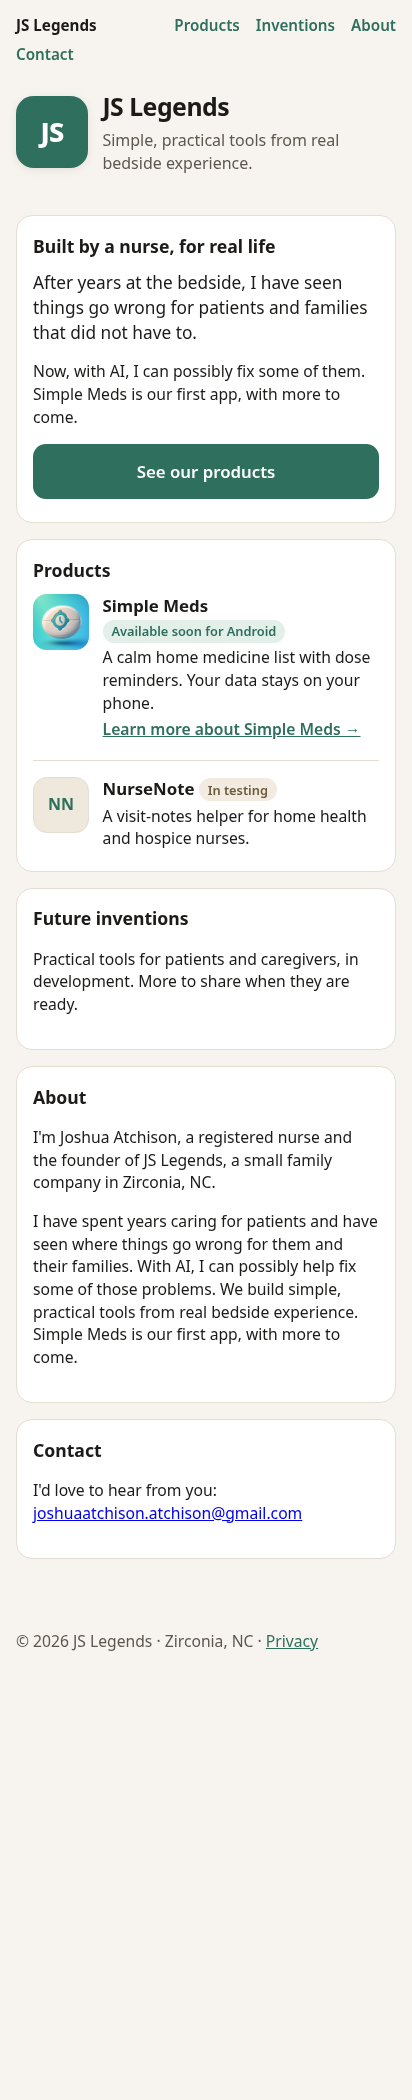
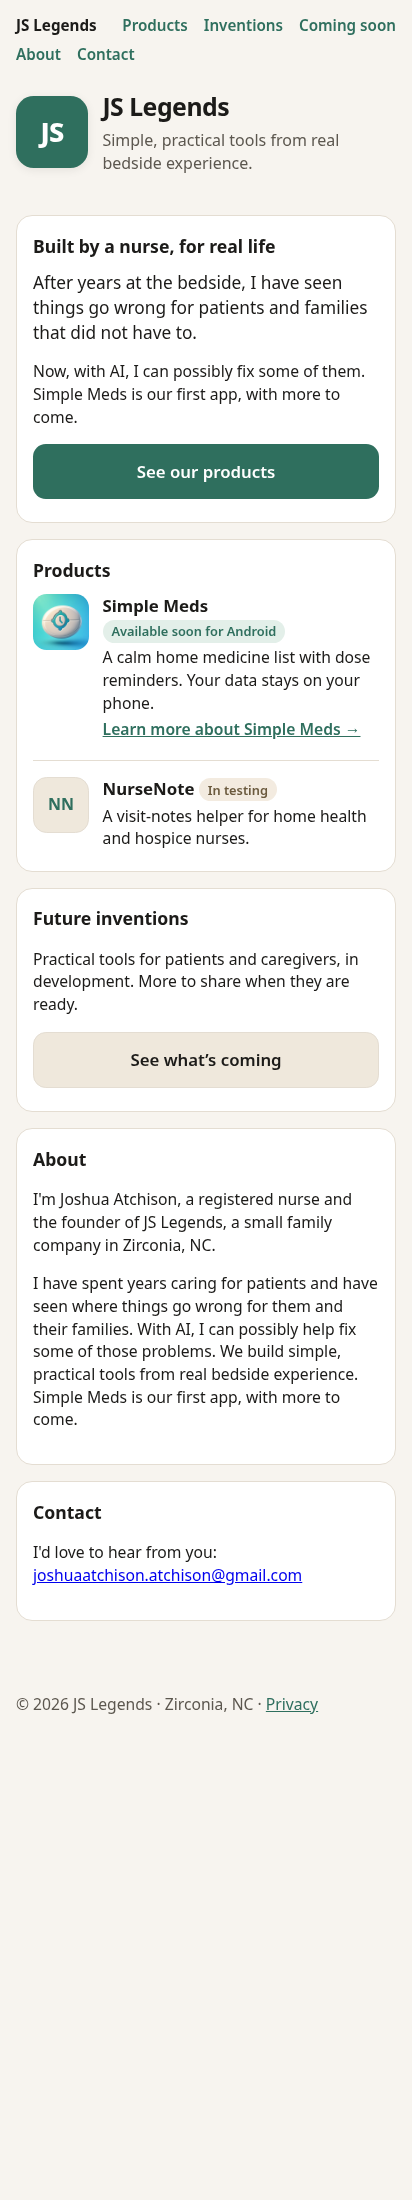
Clickable Simple Meds card; add coming-soon.html with mailto idea form

diff --git a/coming-soon.html b/coming-soon.html
@@ -1,0 +1,207 @@
+<!DOCTYPE html>
+<html lang="en">
+<head>
+  <meta charset="utf-8" />
+  <meta name="viewport" content="width=device-width, initial-scale=1" />
+  <title>What&rsquo;s coming — JS Legends</title>
+  <meta name="description" content="JS Legends is a small family company in Zirconia, NC building simple, practical tools for patients, families, and nurses." />
+  <style>
+    :root {
+      --bg: #f7f4ef;
+      --card: #ffffff;
+      --ink: #1c1b19;
+      --muted: #5c574f;
+      --line: #e4ddd2;
+      --accent: #2f6f5e;
+      --accent-ink: #ffffff;
+      --warn: #6b5a3e;
+    }
+    * { box-sizing: border-box; }
+    body {
+      margin: 0;
+      font-family: system-ui, -apple-system, Segoe UI, Roboto, Helvetica, Arial, sans-serif;
+      background: var(--bg);
+      color: var(--ink);
+      line-height: 1.45;
+    }
+    header, main, footer {
+      max-width: 40rem;
+      margin: 0 auto;
+      padding: 1.25rem 1rem;
+    }
+    header {
+      display: flex;
+      gap: 0.9rem;
+      align-items: center;
+      padding-top: 1.5rem;
+    }
+    header img.icon {
+      width: 4.5rem;
+      height: 4.5rem;
+      border-radius: 1.1rem;
+      box-shadow: 0 2px 10px rgba(0,0,0,0.08);
+    }
+    h1 {
+      font-size: 1.55rem;
+      margin: 0 0 0.25rem;
+      letter-spacing: -0.02em;
+    }
+    .tagline {
+      margin: 0;
+      color: var(--muted);
+      font-size: 1rem;
+    }
+    .hero {
+      width: 100%;
+      border-radius: 0.85rem;
+      display: block;
+      margin: 0.5rem 0 1.25rem;
+      border: 1px solid var(--line);
+    }
+    .card {
+      background: var(--card);
+      border: 1px solid var(--line);
+      border-radius: 1rem;
+      padding: 1.1rem 1rem;
+      margin-bottom: 1rem;
+    }
+    h2 {
+      font-size: 1.1rem;
+      margin: 0 0 0.65rem;
+    }
+    p, li { font-size: 0.98rem; }
+    .shots {
+      display: grid;
+      grid-template-columns: 1fr 1fr;
+      gap: 0.65rem;
+    }
+    .shots img {
+      width: 100%;
+      height: auto;
+      border-radius: 0.75rem;
+      border: 1px solid var(--line);
+      background: #fff;
+    }
+    .btn {
+      display: block;
+      text-align: center;
+      text-decoration: none;
+      border-radius: 0.8rem;
+      padding: 0.95rem 1rem;
+      font-weight: 650;
+      font-size: 1.05rem;
+      margin: 0.75rem 0 0.35rem;
+    }
+    .btn-primary {
+      background: var(--accent);
+      color: var(--accent-ink);
+    }
+    .btn-secondary {
+      background: #efe8dc;
+      color: var(--ink);
+      border: 1px solid var(--line);
+    }
+    .note {
+      color: var(--muted);
+      font-size: 0.9rem;
+      margin: 0.35rem 0 0;
+    }
+    ol {
+      margin: 0.4rem 0 0;
+      padding-left: 1.25rem;
+    }
+    li { margin-bottom: 0.4rem; }
+    .disclaimer {
+      border-left: 3px solid var(--warn);
+      padding: 0.65rem 0.85rem;
+      background: #f3ebe0;
+      border-radius: 0 0.75rem 0.75rem 0;
+      color: var(--warn);
+      font-size: 0.92rem;
+    }
+    footer {
+      color: var(--muted);
+      font-size: 0.88rem;
+      padding-bottom: 2.5rem;
+    }
+    footer a { color: var(--accent); }
+    @media (min-width: 640px) {
+      .shots { grid-template-columns: repeat(4, 1fr); }
+    }
+
+    .topnav { max-width:40rem; margin:0 auto; padding:0.9rem 1rem 0; display:flex; flex-wrap:wrap; gap:0.4rem 1rem; align-items:center; font-size:0.95rem; }
+    .topnav a { color: var(--accent); text-decoration:none; font-weight:600; }
+    .topnav .brand { color: var(--ink); font-weight:750; margin-right:auto; }
+
+    .mark { width:4.5rem; height:4.5rem; border-radius:1.1rem; background:var(--accent); color:#fff; display:flex; align-items:center; justify-content:center; font-weight:800; font-size:1.7rem; letter-spacing:-0.03em; box-shadow:0 2px 10px rgba(0,0,0,0.08); flex:none; }
+    .lead { font-size:1.08rem; margin:0 0 0.6rem; }
+    .product { display:flex; gap:0.85rem; align-items:flex-start; }
+    .product img, .product .pmark { width:3.5rem; height:3.5rem; border-radius:0.85rem; flex:none; }
+    .product .pmark { background:#efe8dc; border:1px solid var(--line); display:flex; align-items:center; justify-content:center; font-weight:750; color:var(--accent); }
+    .product h3 { margin:0 0 0.2rem; font-size:1.05rem; }
+    .product p { margin:0.2rem 0; }
+    .badge { display:inline-block; font-size:0.8rem; font-weight:650; padding:0.15rem 0.55rem; border-radius:999px; background:#e3efe9; color:var(--accent); }
+    .badge.test { background:#f3ebe0; color:var(--warn); }
+    .product a.more { color:var(--accent); font-weight:600; }
+    a.product-link { color:inherit; text-decoration:none; border-radius:0.85rem; padding:0.5rem; margin:-0.5rem; transition:background .15s, box-shadow .15s; }
+    a.product-link .more { color:var(--accent); font-weight:600; text-decoration:underline; }
+    a.product-link:hover { background:#f3efe7; }
+    a.product-link:focus-visible { outline:3px solid var(--accent); outline-offset:2px; background:#f3efe7; }
+    .field { display:block; margin:0 0 0.8rem; font-weight:600; font-size:0.95rem; }
+    .field input, .field textarea { display:block; width:100%; margin-top:0.3rem; font:inherit; font-weight:400; padding:0.65rem 0.75rem; border:1px solid var(--line); border-radius:0.65rem; background:#fff; color:var(--ink); }
+    .field input:focus, .field textarea:focus { outline:2px solid var(--accent); border-color:var(--accent); }
+    button.btn { width:100%; border:0; cursor:pointer; font-family:inherit; }
+    .note a { color: var(--accent); }
+    .works li { margin-bottom:0.5rem; }
+  </style>
+</head>
+<body>
+  <nav class="topnav" aria-label="Site">
+    <a class="brand" href="index.html">JS Legends</a>
+    <a href="index.html#products">Products</a><a href="index.html#inventions">Inventions</a><a href="coming-soon.html" aria-current="page">Coming soon</a><a href="index.html#about">About</a><a href="index.html#contact">Contact</a>
+  </nav>
+  <header>
+    <div class="mark" aria-hidden="true">JS</div>
+    <div>
+      <h1>What&rsquo;s coming</h1>
+      <p class="tagline">We are working on more simple tools for patients, families, and nurses.</p>
+    </div>
+  </header>
+
+  <main>
+    <section class="card" aria-labelledby="works-title">
+      <h2 id="works-title">In the works</h2>
+      <ul class="works">
+        <li><strong>NurseNote</strong> <span class="badge test">In testing</span><br />A visit-notes helper for home health and hospice nurses.</li>
+        <li><strong>More health-at-home tools</strong><br />Simple helps for managing care at home.</li>
+        <li><strong>Caregiver helpers</strong><br />Small tools to make a caregiver&rsquo;s day a little easier.</li>
+      </ul>
+    </section>
+
+    <section class="card" aria-labelledby="idea-title">
+      <h2 id="idea-title">Tell us what you&rsquo;d like to see</h2>
+      <p>Have an idea for a tool that would help you or someone you care for? We would love to hear it.</p>
+      <form id="idea-form" action="mailto:joshuaatchison.atchison@gmail.com?subject=JS%20Legends%20idea" method="post" enctype="text/plain">
+        <label class="field">Name (optional)<input type="text" name="name" autocomplete="name" /></label>
+        <label class="field">Email (optional)<input type="email" name="email" autocomplete="email" /></label>
+        <label class="field">Your idea<textarea name="idea" rows="5" required></textarea></label>
+        <button class="btn btn-primary" type="submit">Send idea</button>
+      </form>
+      <p class="note">This opens your email app with your idea filled in. Nothing is sent until you press send there. Or <a href="mailto:joshuaatchison.atchison@gmail.com?subject=JS%20Legends%20idea">email us</a> directly.</p>
+    </section>
+  </main>
+
+  <script>
+    document.getElementById('idea-form').addEventListener('submit', function (e) {
+      e.preventDefault();
+      var f = e.target;
+      var body = 'Name: ' + f.name.value + '\nEmail: ' + f.email.value + '\n\nIdea:\n' + f.idea.value;
+      window.location.href = 'mailto:joshuaatchison.atchison@gmail.com?subject=' + encodeURIComponent('JS Legends idea') + '&body=' + encodeURIComponent(body);
+    });
+  </script>
+
+  <footer>
+    <p>&copy; 2026 JS Legends · Zirconia, NC · <a href="https://gist.github.com/Curious-Josh1975/8cf0863ac1959f25cbb6e45ab8584f67">Privacy</a></p>
+  </footer>
+</body>
+</html>

diff --git a/index.html b/index.html
@@ -143,12 +143,22 @@
     .badge { display:inline-block; font-size:0.8rem; font-weight:650; padding:0.15rem 0.55rem; border-radius:999px; background:#e3efe9; color:var(--accent); }
     .badge.test { background:#f3ebe0; color:var(--warn); }
     .product a.more { color:var(--accent); font-weight:600; }
+    a.product-link { color:inherit; text-decoration:none; border-radius:0.85rem; padding:0.5rem; margin:-0.5rem; transition:background .15s, box-shadow .15s; }
+    a.product-link .more { color:var(--accent); font-weight:600; text-decoration:underline; }
+    a.product-link:hover { background:#f3efe7; }
+    a.product-link:focus-visible { outline:3px solid var(--accent); outline-offset:2px; background:#f3efe7; }
+    .field { display:block; margin:0 0 0.8rem; font-weight:600; font-size:0.95rem; }
+    .field input, .field textarea { display:block; width:100%; margin-top:0.3rem; font:inherit; font-weight:400; padding:0.65rem 0.75rem; border:1px solid var(--line); border-radius:0.65rem; background:#fff; color:var(--ink); }
+    .field input:focus, .field textarea:focus { outline:2px solid var(--accent); border-color:var(--accent); }
+    button.btn { width:100%; border:0; cursor:pointer; font-family:inherit; }
+    .note a { color: var(--accent); }
+    .works li { margin-bottom:0.5rem; }
   </style>
 </head>
 <body>
   <nav class="topnav" aria-label="Site">
     <a class="brand" href="index.html">JS Legends</a>
-    <a href="#products">Products</a><a href="#inventions">Inventions</a><a href="#about">About</a><a href="#contact">Contact</a>
+    <a href="#products">Products</a><a href="#inventions">Inventions</a><a href="coming-soon.html">Coming soon</a><a href="#about">About</a><a href="#contact">Contact</a>
   </nav>
   <header>
     <div class="mark" aria-hidden="true">JS</div>
@@ -168,14 +178,14 @@
 
     <section class="card" id="products" aria-labelledby="products-title">
       <h2 id="products-title">Products</h2>
-      <div class="product">
+      <a class="product product-link" href="simple-meds.html" aria-label="Simple Meds, available soon for Android. Learn more.">
         <img src="assets/icon-512.png" width="56" height="56" alt="Simple Meds icon" />
         <div>
           <h3>Simple Meds <span class="badge">Available soon for Android</span></h3>
           <p>A calm home medicine list with dose reminders. Your data stays on your phone.</p>
-          <p><a class="more" href="simple-meds.html">Learn more about Simple Meds &rarr;</a></p>
+          <p><span class="more">Learn more about Simple Meds &rarr;</span></p>
         </div>
-      </div>
+      </a>
       <hr style="border:0;border-top:1px solid var(--line);margin:1rem 0" />
       <div class="product">
         <div class="pmark" aria-hidden="true">NN</div>
@@ -189,6 +199,7 @@
     <section class="card" id="inventions" aria-labelledby="inventions-title">
       <h2 id="inventions-title">Future inventions</h2>
       <p>Practical tools for patients and caregivers, in development. More to share when they are ready.</p>
+      <a class="btn btn-secondary" href="coming-soon.html">See what&rsquo;s coming</a>
     </section>
 
     <section class="card" id="about" aria-labelledby="about-title">
